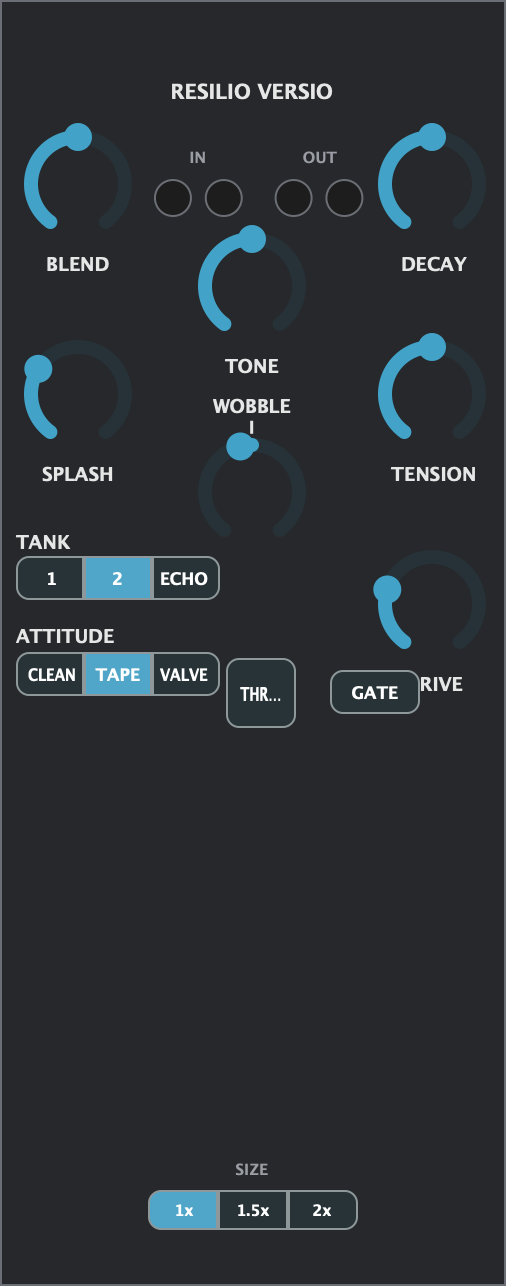
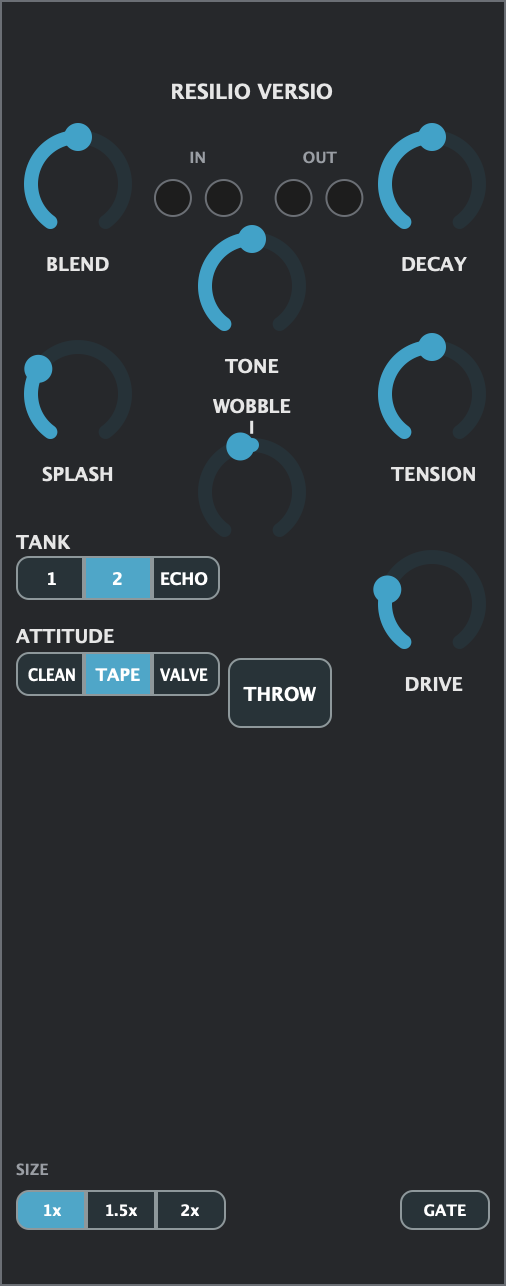
Site: header turns to dark glass over dark bands (phones); plugin screenshot back in the manual (fixed layout)

diff --git a/site/src/styles/site.css b/site/src/styles/site.css
@@ -72,6 +72,19 @@ code { font-family: var(--font-mono); font-size: 0.88em; }
   .menu { display: block; }
 }
 
+/* Over a dark band: dark glass pills, light text, the Download button inverts. */
+.site-header { transition: color var(--dur-2) var(--ease-out); }
+.is-over-ink { color: var(--paper); }
+.is-over-ink .wordmark,
+.is-over-ink .nav-pill,
+.is-over-ink .menu summary { background: rgb(38 38 38 / 0.6); color: var(--paper); }
+.is-over-ink .nav-pill a:hover { background: rgb(255 255 255 / 0.12); }
+.is-over-ink .nav-pill a[aria-current="page"] { background: rgb(255 255 255 / 0.18); }
+.is-over-ink .btn-dark { background: var(--paper); color: var(--ink); }
+.is-over-ink .menu[open] summary { background: var(--white); color: var(--ink); }
+.is-over-ink .menu ul { color: var(--ink); }
+.is-over-ink :focus-visible { outline-color: var(--signal); }
+
 /* ---- Sections ------------------------------------------------------------ */
 .section { padding-bottom: var(--section-y); }
 .section-head { row-gap: var(--stack-1); align-items: baseline; }
@@ -379,3 +392,6 @@ code { font-family: var(--font-mono); font-size: 0.88em; }
 .switch { justify-self: start; width: max-content; }
 .tile-row .player { justify-self: start; }
 @media (max-width: 47.99rem) { .doc-body .index-nav .sub-item { display: none; } }
+
+/* The plugin screenshot in the manual: shown near its real 2x size, not stretched to the column. */
+.manual-screenshot { max-width: 20rem; margin-block: var(--stack-4); }

diff --git a/docs/minisite/README.md b/docs/minisite/README.md
@@ -13,7 +13,7 @@ Everything needed to build the Resilio Versio minisite: what it must **say** and
 | `content/*.md` | Final copy, one file per page, with front-matter (`title`, `description`, `slug`, `order`): `overview`, `manual`, `install`, `presets`, `changelog`, `faq`, `credits` |
 | `assets/audio/*.mp3` + `demos.json` | Ten demo clips (11–20 s, MP3 160 kbps, loudness-matched ~−20.5 LUFS) with title, caption, transcript, duration and settings in panel names |
 | `assets/panel/resilio-versio-panel.svg` | Panel diagram, to scale, panel names only, themeable |
-| `assets/screenshots/plugin-panel.png` | The plugin's panel at 2x (506 × 1286), default settings. **Draft: see "Before launch"** |
+| `assets/screenshots/plugin-panel.png` | The plugin's panel at 2x (506 × 1286), default settings, with the fixed layout (THROW in full; SIZE and GATE on the bottom row; 7 Oct 2026) |
 | `tools/` | How the assets were made: `make_site_panel_svg.py` (run from the Resilio repo root) and `demos/` (stimulus, render and encode scripts, loudness report). Not needed by the website |
 
 Markers in the copy: `<!-- DEMOS -->`, `<!-- DOWNLOADS -->`, `<!-- PANEL -->`, `<!-- SCREENSHOT -->`, `<!-- LATEST -->` say where a component goes. `<!-- OWNER: … -->` marks a question for the owner: never publish it, never invent the answer.
@@ -27,12 +27,12 @@ Markers in the copy: `<!-- DEMOS -->`, `<!-- DOWNLOADS -->`, `<!-- PANEL -->`, `
 ## Before launch (for the owner)
 
 1. **Listen to the ten demos** and approve them (or say which to cut or redo). They were rendered and loudness-checked by machine but not yet heard by you, and their transcripts describe the intended sound.
-2. **Plugin screenshot.** In the snapshot the GATE switch overlaps DRIVE's label and the button reads "THR…". Check whether the plugin looks the same in Ableton. If it does, it's a small layout fix in the plugin before a screenshot goes public; if it doesn't, take a screenshot from Ableton instead.
-3. **Licence.** None chosen yet; the plugin builds on JUCE (AGPLv3 or JUCE's licences). Needed before the repo and downloads go public (`content/credits.md`).
+2. ~~**Plugin screenshot.**~~ Done (7 Oct 2026): the plugin layout was fixed (ADR 0045) and the screenshot replaced.
+3. ~~**Licence.**~~ Decided (ADR 0045): our code MIT, the plugin binaries AGPLv3 (JUCE); see `LICENSE` and `NOTICE`.
 4. **Your credit** (name or handle, link) in `content/credits.md`.
 5. **Feedback channel** (GitHub issues, email, form) in `content/overview.md` and `content/faq.md`.
 6. **Which Versio module(s)** it has been played on, for the FAQ.
-7. **Stable download names** (BRIEF §9): agree to the release script also uploading `resilio-versio-firmware.bin` and `resilio-versio-plugin-macos.zip` (and optionally `latest.json`), so the site's "latest" links never change.
+7. ~~**Stable download names.**~~ Done (ADR 0045): `tools/make_release.sh` uploads `resilio-versio-firmware.bin`, `resilio-versio-plugin-macos.zip` and `SHA256SUMS.txt` on full releases.
 8. **Go-public switch.** Download links and the source link are live only once the repository is public.
 
 ## Sizes

diff --git a/docs/minisite/content/manual.md b/docs/minisite/content/manual.md
@@ -184,4 +184,4 @@ The plugin (AU and VST3, macOS) has the same panel, the same sound and the same 
 - **SIZE** (1x, 1.5x, 2x) scales the panel.
 - Use it on a return track with BLEND fully right, or as an insert with BLEND to taste.
 
-<!-- SCREENSHOT: assets/screenshots/plugin-panel.png (see the package README before using it) -->
+<!-- SCREENSHOT: assets/screenshots/plugin-panel.png -->
